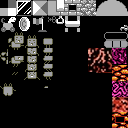
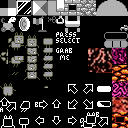
- Key [x,y] saved from player's [x,y] - Added tutorial

diff --git a/examples/LuciYFer/CHANGELOG.md b/examples/LuciYFer/CHANGELOG.md
@@ -46,6 +46,8 @@
 - Don't render key when collected
 - Add door sprite, collision and functionality
 - Don't render door when key was collected
+- Key [x,y] saved from player's [x,y]
+- Added tutorial
 
 ## [25.10.2023]
 - Add states and screens
